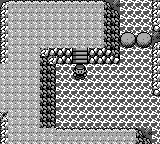
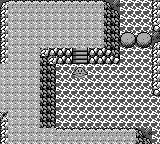
fix: render original SeelSprite while surfing in both frontends

Changed region(s): [[0.4375, 0.4444, 0.5625, 0.5556]]

diff --git a/crates/pokered-app/tests/surf_rendering.rs b/crates/pokered-app/tests/surf_rendering.rs
@@ -1,0 +1,132 @@
+//! Original Red/Blue surfing uses SeelSprite, with the standard six-frame layout.
+use dotzuki_engine::{overworld::types::TransportMode, render_config::RenderConfig};
+use pokered_app::render::draw_overworld;
+use pokered_core::{
+    game_state::Lang,
+    overworld::{Direction, MovementState, OverworldScreen},
+};
+use pokered_data::{impl_traits::PokemonRedData, maps::MapId};
+use pokered_renderer::{
+    resource::{AssetRoot, ResourceManager},
+    FrameBuffer, Rgba,
+};
+
+fn screen() -> OverworldScreen {
+    let mut s = OverworldScreen::new(MapId::SeafoamIslandsB3F, None, PokemonRedData);
+    s.state.player.x = 18;
+    s.state.player.y = 10;
+    s.state.player.facing = Direction::Down;
+    s.state.player.transport = TransportMode::Surfing;
+    s
+}
+
+fn render(s: &mut OverworldScreen) -> FrameBuffer {
+    let mut rm = Some(ResourceManager::new(
+        AssetRoot::auto_detect().expect("gfx assets"),
+    ));
+    let mut fb = FrameBuffer::new(RenderConfig::new(160, 144), Rgba::WHITE);
+    draw_overworld(s, &mut rm, &mut fb, Lang::En);
+    fb
+}
+
+/// Explicitly run on master and the PR branch with identical fixed states.
+#[test]
+#[ignore = "explicit screenshot capture"]
+fn capture_surf_comparisons() {
+    let side = std::env::var("CAPTURE_SIDE").expect("CAPTURE_SIDE=before or after");
+    assert!(side == "before" || side == "after");
+    let dir =
+        std::path::Path::new(env!("CARGO_MANIFEST_DIR")).join("../../docs/screenshots/pr62-fixes");
+    std::fs::create_dir_all(&dir).unwrap();
+    let mut s = screen();
+    for (name, facing, moving) in [
+        ("surf-down", Direction::Down, false),
+        ("surf-right", Direction::Right, true),
+    ] {
+        s.state.player.facing = facing;
+        if moving {
+            s.state.player.movement_state = MovementState::Walking;
+            s.state.walk_counter = 6;
+        }
+        render(&mut s)
+            .save_png(&dir.join(format!("{name}-{side}.png")))
+            .unwrap();
+    }
+}
+
+fn assert_sprite(fb: &FrameBuffer, asset: &str, frame: usize, flip: bool) {
+    use pokered_renderer::palette::{Palette, GRAYSCALE_PALETTE};
+    let mut rm = ResourceManager::new(AssetRoot::auto_detect().unwrap());
+    let sheet = rm.load_sprite(asset).unwrap().tileset.clone();
+    let pal = Palette::new(&[
+        Rgba::TRANSPARENT,
+        GRAYSCALE_PALETTE.colors[1],
+        GRAYSCALE_PALETTE.colors[2],
+        GRAYSCALE_PALETTE.colors[3],
+    ]);
+    let mut ink = 0;
+    for y in 0..16u32 {
+        for x in 0..16u32 {
+            let sx = if flip { 15 - x } else { x };
+            let tile = sheet.get(frame * 4 + (y / 8 * 2 + sx / 8) as usize);
+            let c = tile.render_row((y % 8) as usize, &pal)[(sx % 8) as usize];
+            if c != Rgba::TRANSPARENT {
+                ink += 1;
+                assert_eq!(
+                    fb.get_pixel(72 + x, 64 + y),
+                    Some(c),
+                    "{asset} frame={frame} flip={flip} at ({x},{y})"
+                );
+            }
+        }
+    }
+    assert!(ink > 30, "sprite must have visible pixels");
+}
+
+#[test]
+fn surfing_uses_seel_in_all_facings_and_animation_phases() {
+    for (dir, stand, step, right) in [
+        (Direction::Down, 0, 3, false),
+        (Direction::Up, 1, 4, false),
+        (Direction::Left, 2, 5, false),
+        (Direction::Right, 2, 5, true),
+    ] {
+        let mut s = screen();
+        s.state.player.facing = dir;
+        assert_sprite(&render(&mut s), "seel", stand, right);
+        s.state.player.movement_state = MovementState::Walking;
+        for (counter, frame, mirror) in [
+            (8, stand, false),
+            (6, step, false),
+            (4, stand, false),
+            (2, step, matches!(dir, Direction::Down | Direction::Up)),
+        ] {
+            s.state.walk_counter = counter;
+            assert_sprite(&render(&mut s), "seel", frame, right || mirror);
+        }
+    }
+}
+
+#[test]
+fn leaving_surf_restores_red_and_biking_keeps_its_sprite() {
+    let mut s = screen();
+    s.state.player.transport = TransportMode::Walking;
+    let walking = render(&mut s);
+    s.state.player.transport = TransportMode::Surfing;
+    let surfing = render(&mut s);
+    assert!(
+        (64..80).any(|y| (72..88).any(|x| walking.get_pixel(x, y) != surfing.get_pixel(x, y))),
+        "surf must replace RedSprite"
+    );
+    assert_sprite(&surfing, "seel", 0, false);
+    s.state.player.transport = TransportMode::Walking;
+    let restored = render(&mut s);
+    assert_sprite(&restored, "red", 0, false);
+    for y in 0..144 {
+        for x in 0..160 {
+            assert_eq!(walking.get_pixel(x, y), restored.get_pixel(x, y));
+        }
+    }
+    s.state.player.transport = TransportMode::Biking;
+    assert_sprite(&render(&mut s), "red_bike", 0, false);
+}

diff --git a/crates/pokered-app/src/render/overworld.rs b/crates/pokered-app/src/render/overworld.rs
@@ -467,14 +467,13 @@ pub fn draw_overworld(
         // Player sprite: 16×96 sheet = 6 frames of 16×16
         // Frame layout: DownStand=0, UpStand=1, LeftStand=2, DownWalk=3, UpWalk=4, LeftWalk=5
         // Right uses Left frames with horizontal flip
-        // Biking swaps the sheet to red_bike.png (same 6-frame layout) — the
-        // original's LoadBikePlayerSpriteGraphics loads RedBikeSprite
-        // (gfx/sprites.asm:34) while wWalkBikeSurfState == 1; the frame and
-        // flip selection below is shared by both sheets.
-        let player_sprite = if screen.state.player.transport == TransportMode::Biking {
-            "red_bike"
-        } else {
-            "red"
+        // LoadPlayerSpriteGraphics selects RedSprite / RedBikeSprite /
+        // SeelSprite for walking / biking / surfing (home/overworld.asm).
+        // All three sheets share the facing and animation layout below.
+        let player_sprite = match screen.state.player.transport {
+            TransportMode::Walking => "red",
+            TransportMode::Biking => "red_bike",
+            TransportMode::Surfing => "seel",
         };
         if let Ok(cached) = rm.load_sprite(player_sprite) {
             let ts = cached.tileset.clone();

diff --git a/crates/pokered-tui/src/render/overworld.rs b/crates/pokered-tui/src/render/overworld.rs
@@ -500,14 +500,13 @@ pub fn draw_overworld(
         // Player sprite: 16×96 sheet = 6 frames of 16×16
         // Frame layout: DownStand=0, UpStand=1, LeftStand=2, DownWalk=3, UpWalk=4, LeftWalk=5
         // Right uses Left frames with horizontal flip
-        // Biking swaps the sheet to red_bike.png (same 6-frame layout) — the
-        // original's LoadBikePlayerSpriteGraphics loads RedBikeSprite
-        // (gfx/sprites.asm:34) while wWalkBikeSurfState == 1; the frame and
-        // flip selection below is shared by both sheets.
-        let player_sprite = if screen.state.player.transport == TransportMode::Biking {
-            "red_bike"
-        } else {
-            "red"
+        // LoadPlayerSpriteGraphics selects RedSprite / RedBikeSprite /
+        // SeelSprite for walking / biking / surfing (home/overworld.asm).
+        // All three sheets share the facing and animation layout below.
+        let player_sprite = match screen.state.player.transport {
+            TransportMode::Walking => "red",
+            TransportMode::Biking => "red_bike",
+            TransportMode::Surfing => "seel",
         };
         if let Ok(cached) = rm.load_sprite(player_sprite) {
             let ts = cached.tileset.clone();

diff --git a/docs/screenshots/pr62-fixes/README.md b/docs/screenshots/pr62-fixes/README.md
@@ -17,6 +17,8 @@ base checkout before running its capture command.
 - `fly-15`: side wings in flight, overlapping an NPC (player OAM priority).
 - `fly-18`: opposite wing pose, same hidden player.
 - `fly-33`: last coordinate, bird aligned with the player's landing position.
+- `surf-down`: SeelSprite standing down in the B3F water at (18,10).
+- `surf-right`: SeelSprite moving right at the same tile, walk counter 6.
 - `current-0`: neither B2F boulder down, (15,8) arrival + 60 idle frames.
 - `current-3`: both B2F boulders down, identical arrival + 60 idle frames.
 
@@ -25,3 +27,13 @@ animation frames 15/18/33. For the current it uses the real warp/scene-loading
 path with fixed flag values. All captures use English and identical inputs.
 The TUI shares the corrected visibility rule but approximates FLY by hiding the
 player; the native framebuffer comparisons above show the full sprite animation.
+
+The surf pair uses `surf_rendering::capture_surf_comparisons` (copy
+`crates/pokered-app/tests/surf_rendering.rs` to the same base checkout):
+
+```sh
+CAPTURE_SIDE=before cargo test -p pokered-app --test surf_rendering capture_surf_comparisons -- --ignored
+CAPTURE_SIDE=after cargo test -p pokered-app --test surf_rendering capture_surf_comparisons -- --ignored
+```
+
+The current after-captures also use SeelSprite, matching the final PR state.
